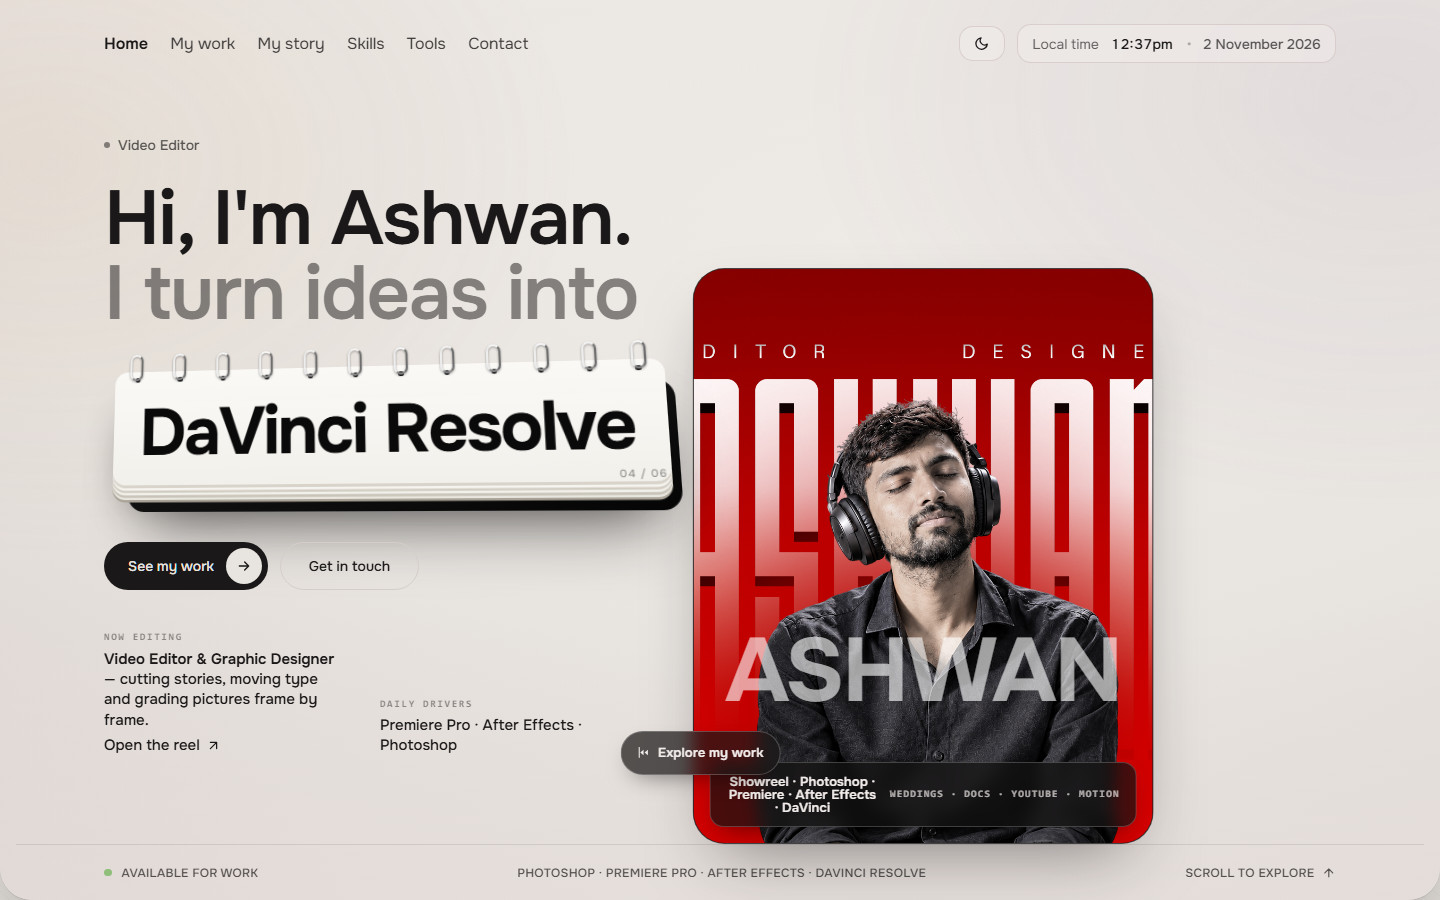
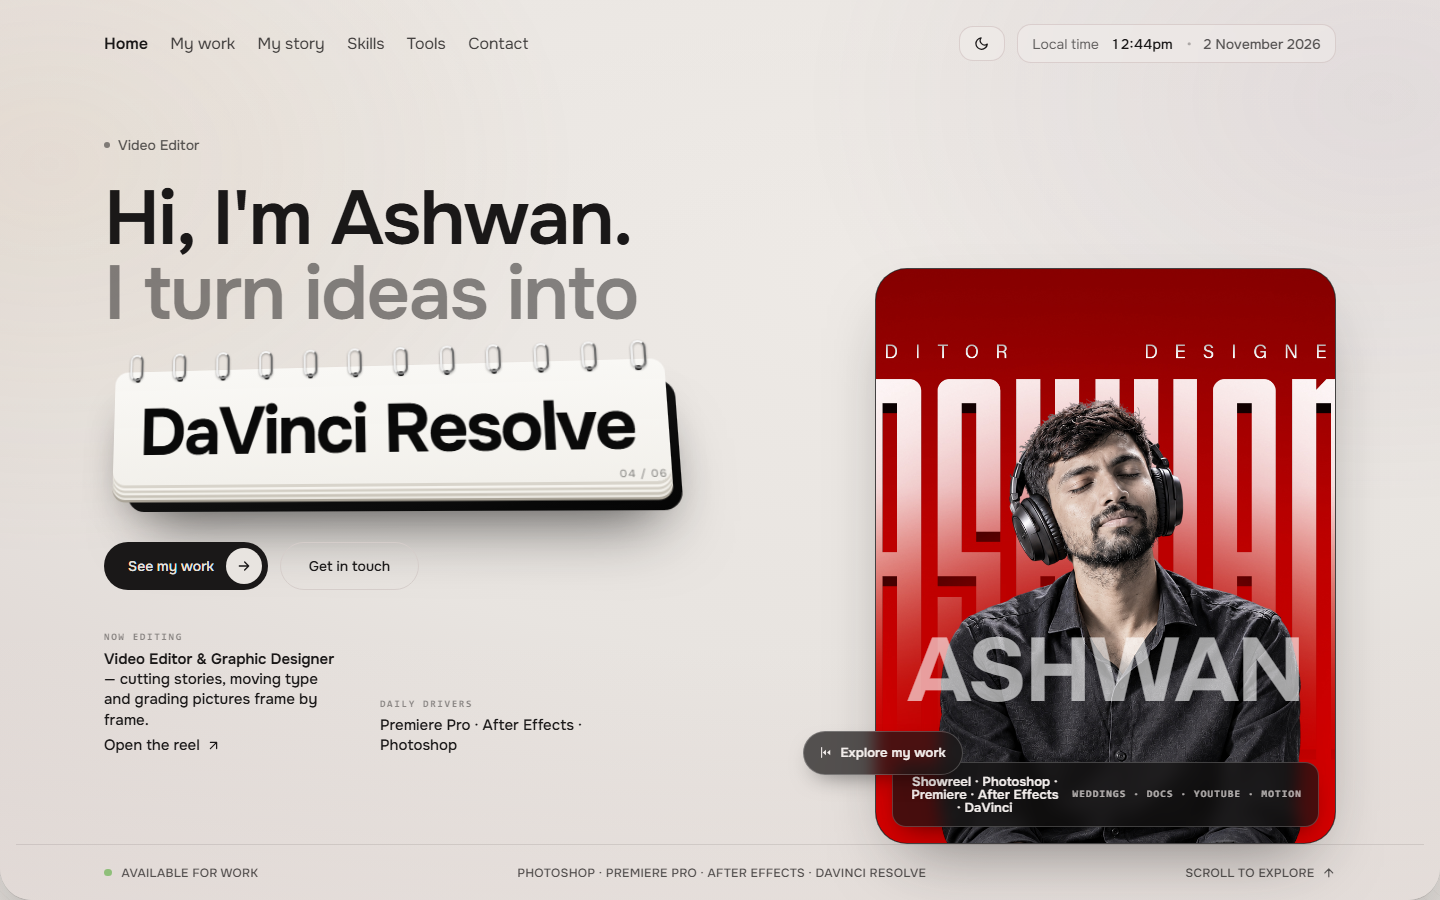
Move hero reel further right: align poster edge to the content shell on anchored desktop (drop stray -50% pull)

Changed region(s): [[0.4062, 0.28, 0.9375, 0.9644]]

diff --git a/src/styles/hero.css b/src/styles/hero.css
@@ -370,10 +370,13 @@ html[data-mode='dark'] .cal__word { color: #0a0a0a; }
     transform: translate(-50%, 0);
   }
 }
-/* wide screens: nudge the reel a touch further to the right — clears the
-   greeting tail more and trims the dead cream gap before the frame edge */
+/* wide screens: the shell-aligned anchor — on desktop the reel is
+   right-anchored, so drop the centered -50% translate (it was left-pulling
+   the poster half its width off the shell) and let the right edge sit on
+   the content shell line, the same inset as the status chip */
 @media (min-width: 1280px) {
   .fig {
-    right: calc(max(0px, (100% - var(--container-shell)) / 2) + var(--gut-lg) - 3rem);
+    right: calc(max(0px, (100% - var(--container-shell)) / 2) + var(--gut-lg));
   }
+  body.ready .fig { transform: translateY(0); }
 }
